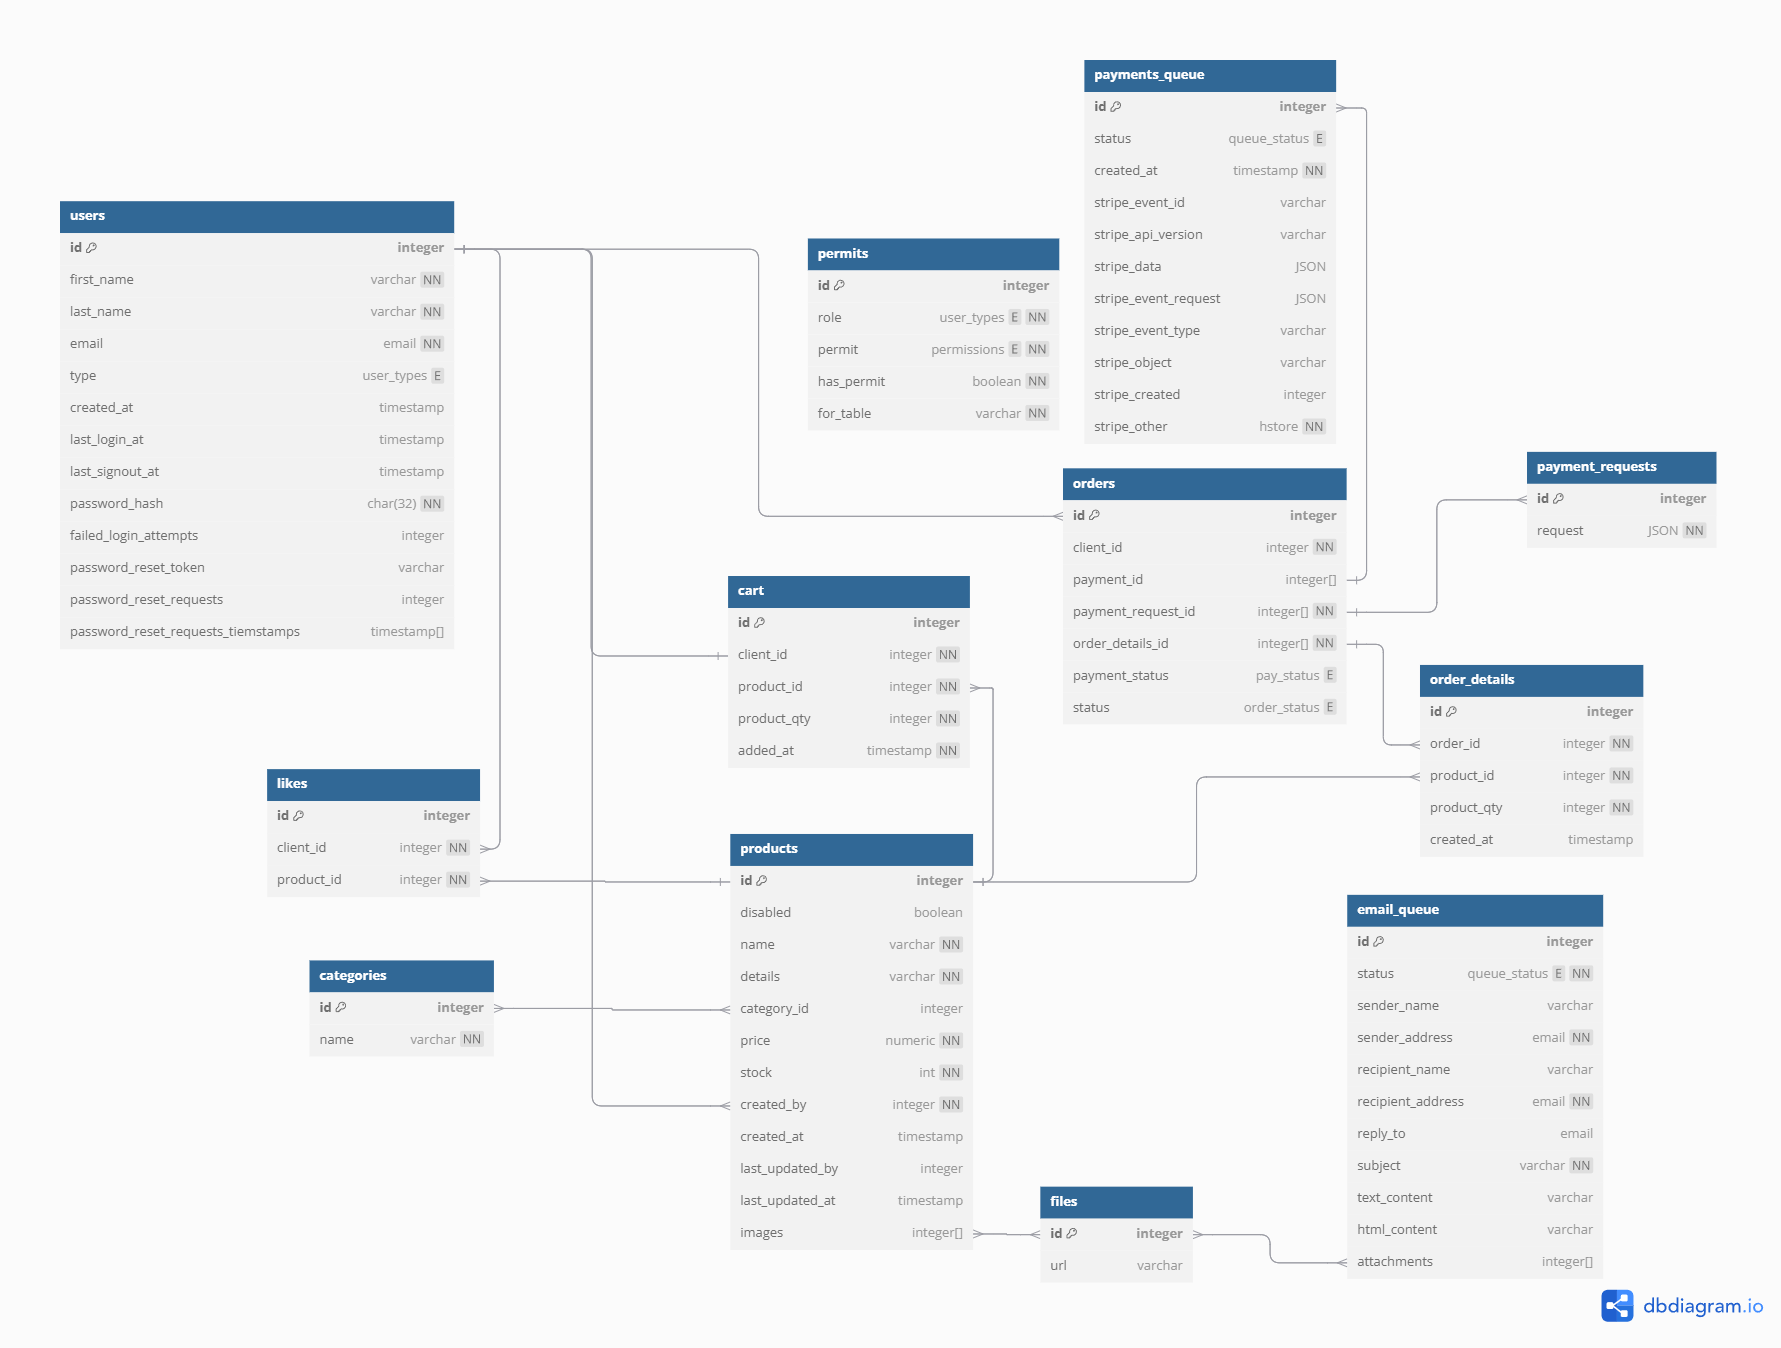
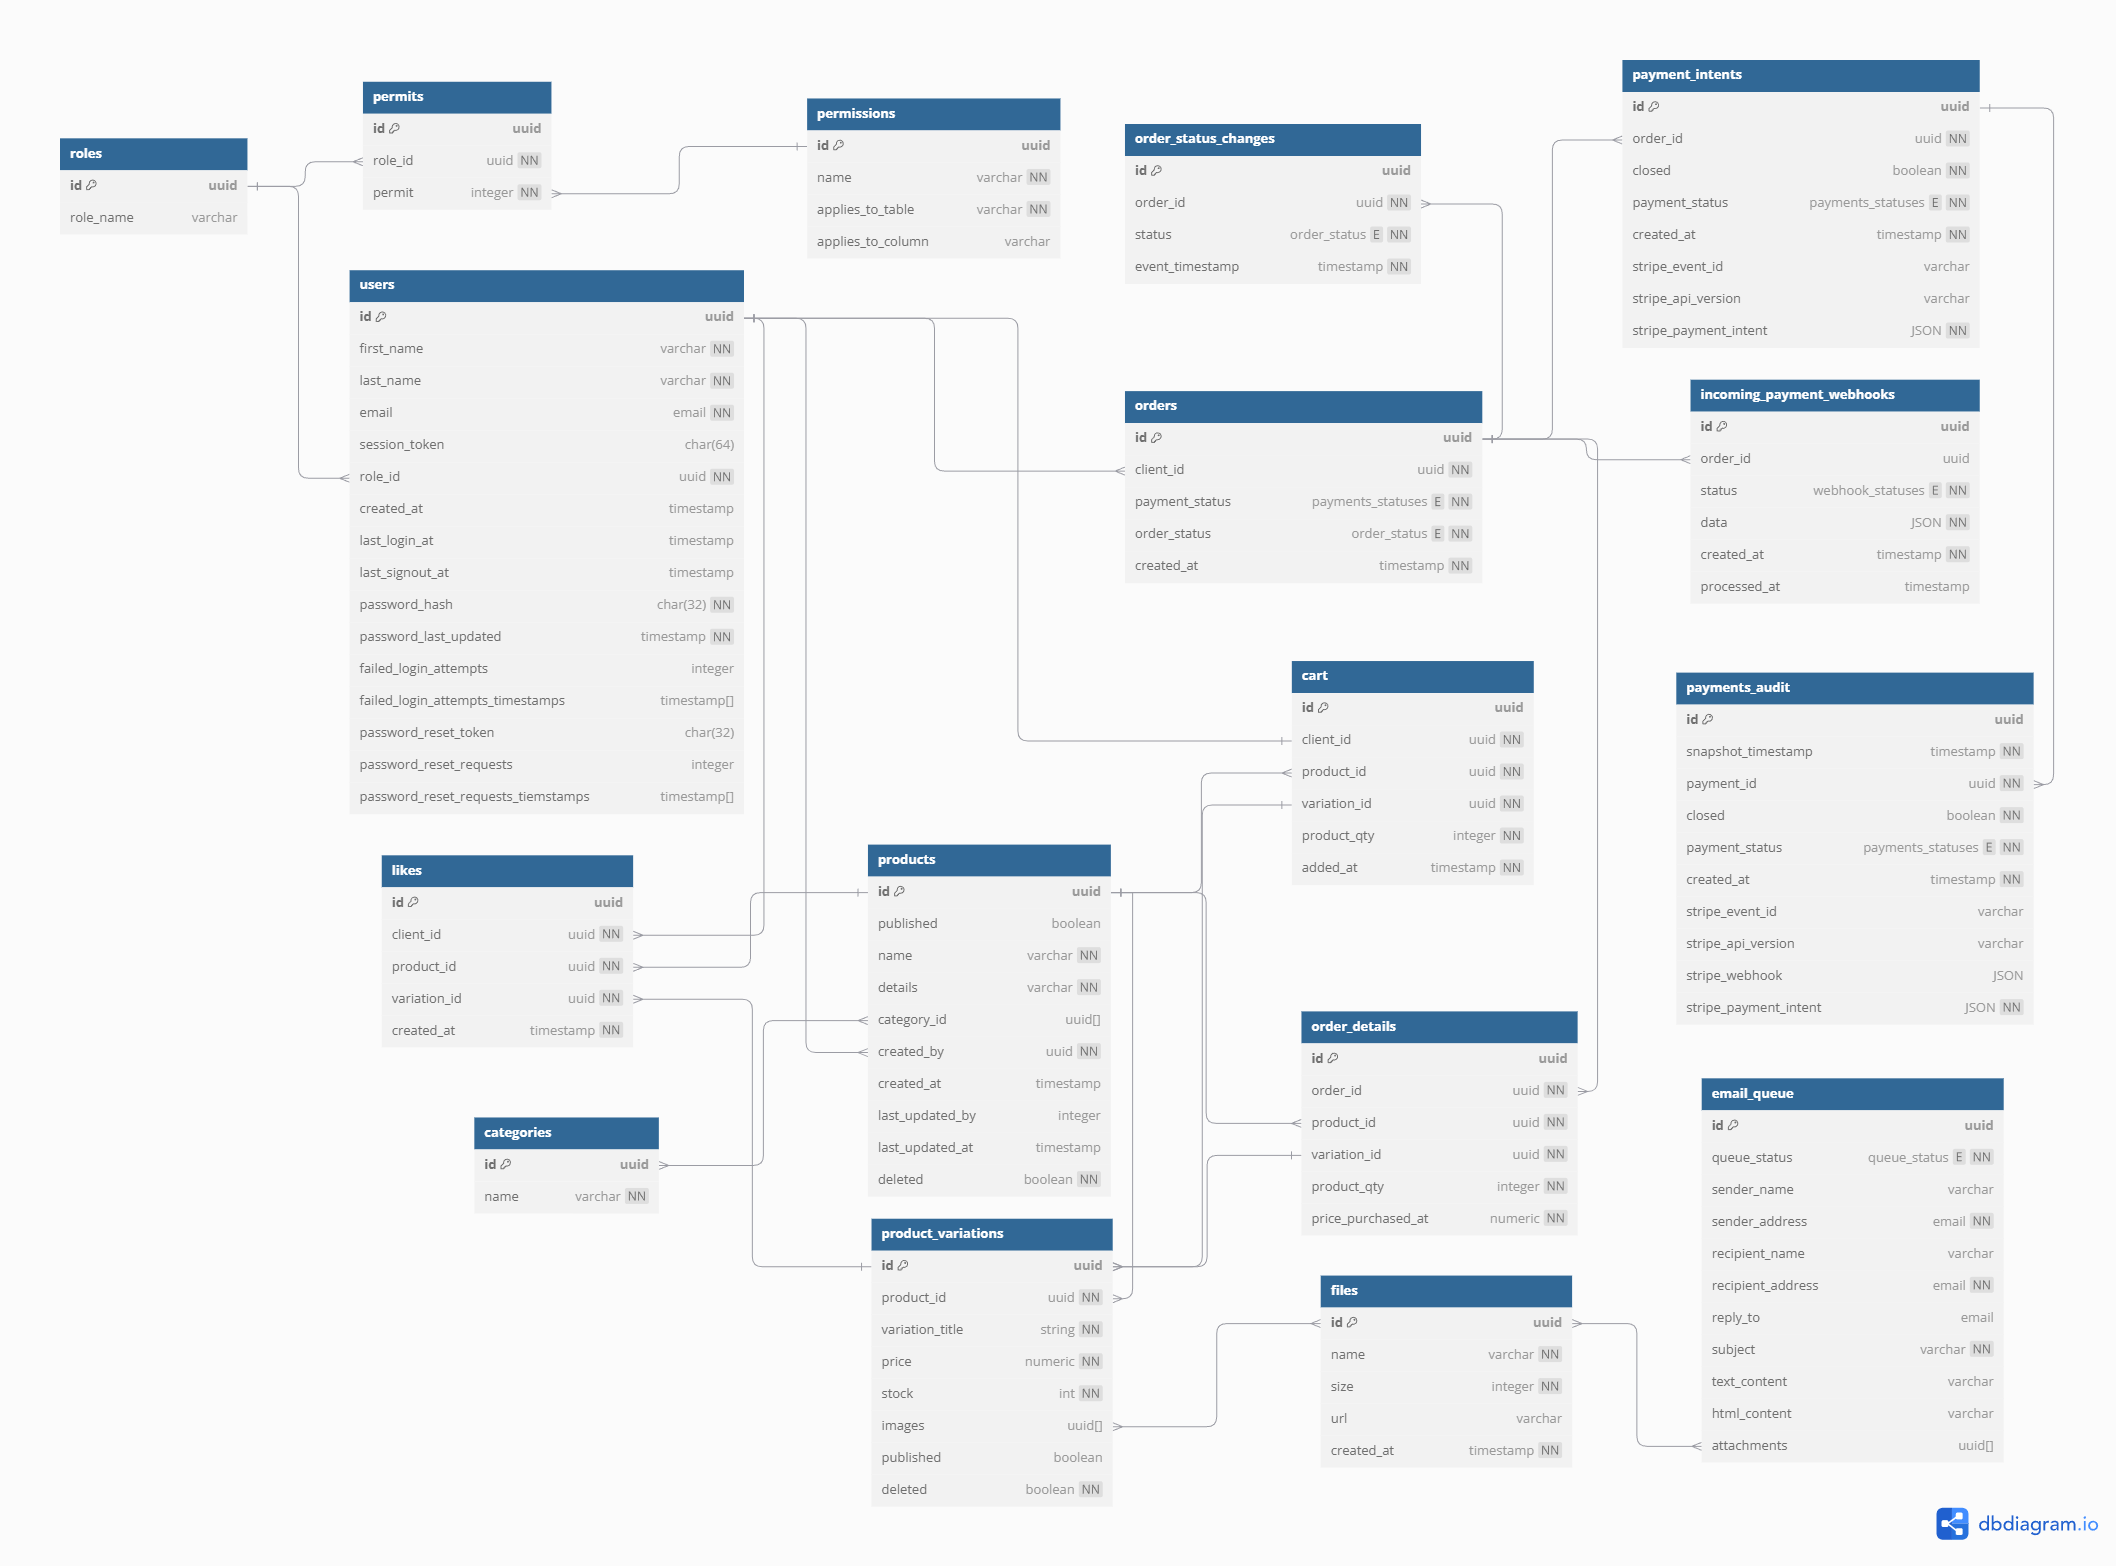
docs: update images and add GQL image.

diff --git a/README.md b/README.md
@@ -1,11 +1,12 @@
 ## Nerdery DB Challange \#3 \- ERD.
-![Proposed Diagram](/ERD-Diagram.png)  
-(Outdated image)
+![Proposed Diagram](/ERD-Diagram.png)
 
 Available in dbdiagram.io [https://dbdiagram.io/d/nerdery_challenge_3-674890aae9daa85aca0aa678](https://dbdiagram.io/d/nerdery_challenge_3-674890aae9daa85aca0aa678)
 
-Endpoint swagger documentation available here: [https://ezrillex.github.io/DB-Nerdery-Challenge-ERD/](https://ezrillex.github.io/DB-Nerdery-Challenge-ERD/)
+REST swagger documentation available here: [https://ezrillex.github.io/DB-Nerdery-Challenge-ERD/](https://ezrillex.github.io/DB-Nerdery-Challenge-ERD/)
 
+![Proposed GraphQL](/graphql_visualized.png)
+[Open in new tab](https://raw.githubusercontent.com/ezrillex/DB-Nerdery-Challenge-ERD/refs/heads/main/graphql_visualized.png)
 # GraphQL --------------------------------
 ## Mandatory Features
 
